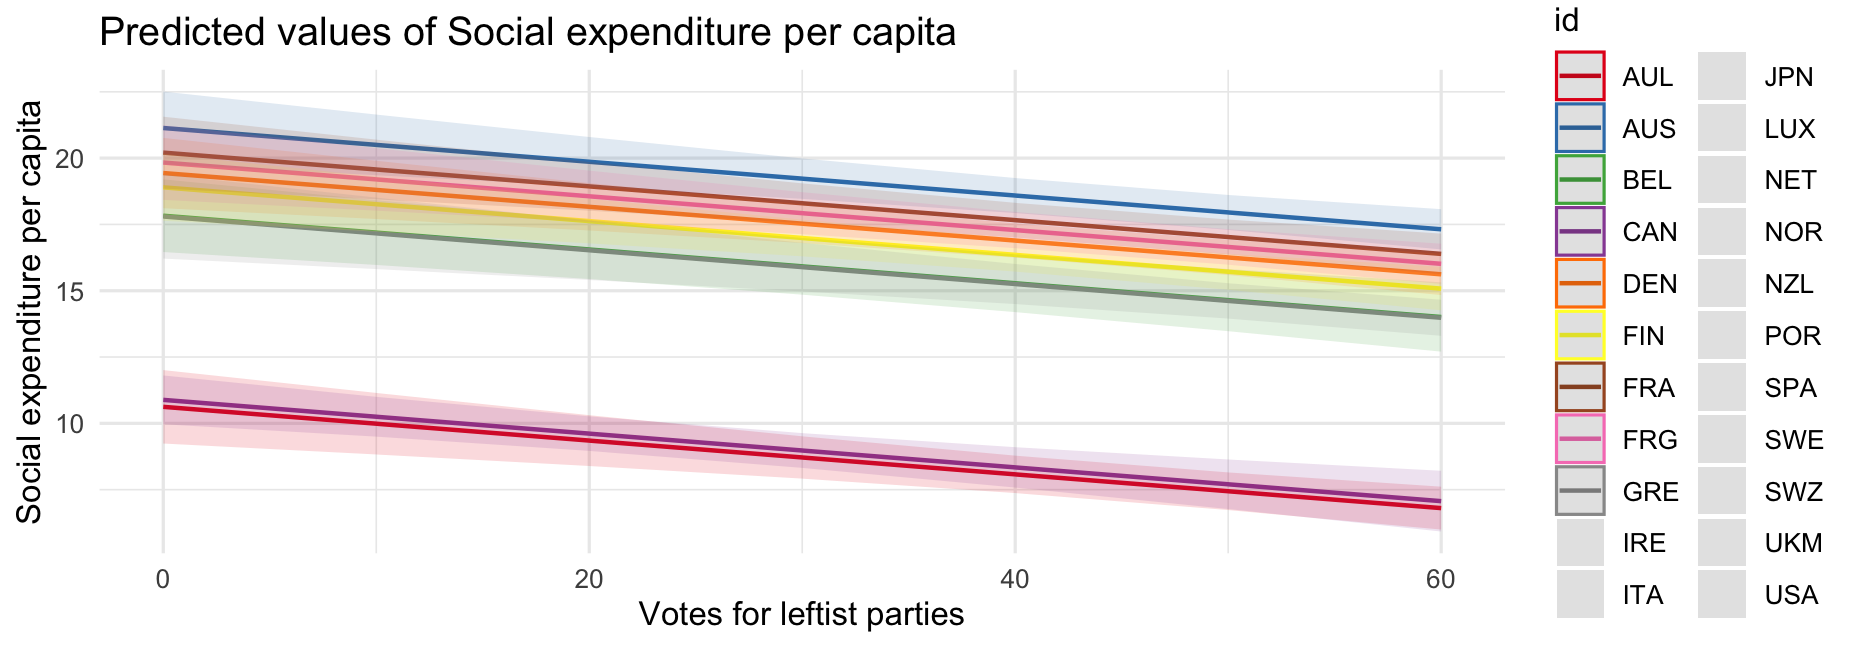
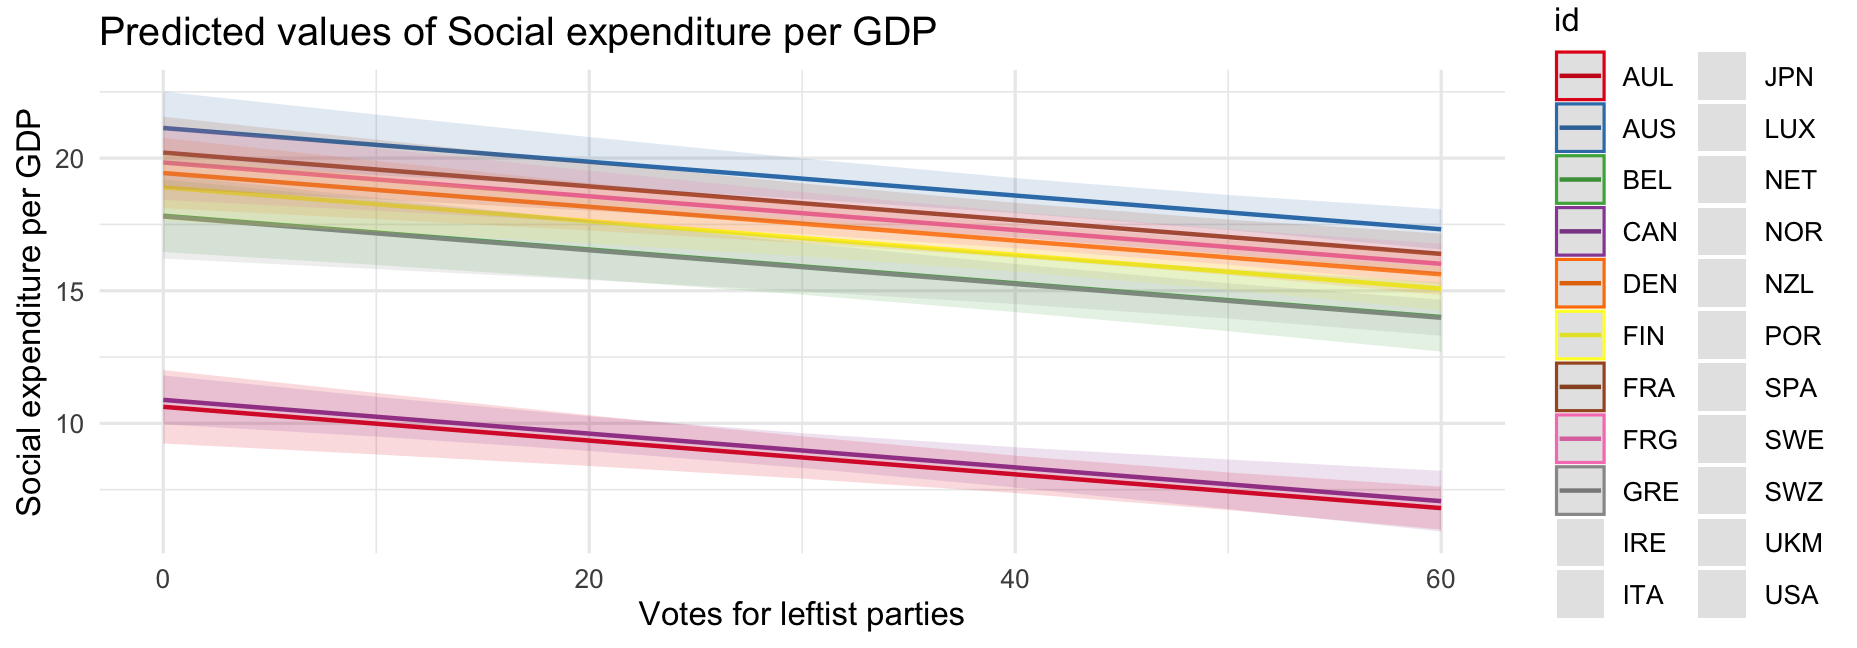
Some minor post-presentation changes to L8

Changed region(s): [[0.0, 0.1543, 0.0312, 0.8025], [0.4373, 0.0, 0.531, 0.0926]]

diff --git a/STAT_L8_Mixed.html b/STAT_L8_Mixed.html
@@ -116,7 +116,7 @@ as well as the cross-sectional part.
 </thead>
 <tbody>
 <tr>
-<td class='rowlabel firstrow'><span class='varlabel'>Social expenditure per capita</span></td>
+<td class='rowlabel firstrow'><span class='varlabel'>Social expenditure per GDP</span></td>
 <td class='firstrow'></td>
 </tr>
 <tr>
@@ -325,7 +325,7 @@ tab_model(ols, digits = 3)
 &lt;table style="border-collapse:collapse; border:none;"&gt;
 &lt;tr&gt;
 &lt;th style="border-top: double; text-align:center; font-style:normal; font-weight:bold; padding:0.2cm;  text-align:left; "&gt;&amp;nbsp;&lt;/th&gt;
-&lt;th colspan="3" style="border-top: double; text-align:center; font-style:normal; font-weight:bold; padding:0.2cm; "&gt;Social expenditure per&lt;br&gt;capita&lt;/th&gt;
+&lt;th colspan="3" style="border-top: double; text-align:center; font-style:normal; font-weight:bold; padding:0.2cm; "&gt;Social expenditure per&lt;br&gt;GDP&lt;/th&gt;
 &lt;/tr&gt;
 &lt;tr&gt;
 &lt;td style=" text-align:center; border-bottom:1px solid; font-style:italic; font-weight:normal;  text-align:left; "&gt;Predictors&lt;/td&gt;
@@ -437,6 +437,29 @@ Though varying intercepts and slopes most commonly used by unit,
 we could also have variation in `\(\alpha\)` or `\(\beta\)` over time.
 
 ---
+class: center, middle
+
+# Fixed Effects
+
+.pull-1[.circleoff[![](https://www.club.cc.cmu.edu/~cmccabe/image/crazy_clock.jpg)]]
+.pull-1[.circleon[![](https://www.fabrikat.ch/media/catalog/product/cache/4/thumbnail/447x/9df78eab33525d08d6e5fb8d27136e95/r/o/rollins_leatherrip_hammer_9_1.jpg)]]
+.pull-1[.circleoff[![](https://www.random.org/analysis/randbitmap-wamp.png)]]
+
+---
+## Modeling this
+
+Panel data models differ depending on where we think errors might correlate.
+
+We'll concentrate on .red[fixed effects] and .red[random effects] today, 
+since they are the building block to understanding the rest.
+
+When random effects are used together with fixed effects, we call this a .red[mixed effects model].
+
+There are other names and similar models out there too that you may encounter,
+such as .red[hierarchical models] (a multilevel model with a single nested hierarchy) 
+and .red[multilevel models] (a hierarchical model with multiple non-nested hierarchies).
+
+---
 ## The Error Term
 
 Now we could have different `\(\alpha\)`s and `\(\beta\)`s for each unit, each time point, 
@@ -478,29 +501,6 @@ Now, this wouldn't be a problem (OLS would not be biased) if this unobserved het
 ???
 
 Key point: measurements over time are almost never independent so OLS assumptions violated; i.e. don't use OLS...
-
----
-class: center, middle
-
-# Fixed Effects
-
-.pull-1[.circleoff[![](https://www.club.cc.cmu.edu/~cmccabe/image/crazy_clock.jpg)]]
-.pull-1[.circleon[![](https://www.fabrikat.ch/media/catalog/product/cache/4/thumbnail/447x/9df78eab33525d08d6e5fb8d27136e95/r/o/rollins_leatherrip_hammer_9_1.jpg)]]
-.pull-1[.circleoff[![](https://www.random.org/analysis/randbitmap-wamp.png)]]
-
----
-## Modeling this
-
-Panel data models differ depending on where we think errors might correlate.
-
-We'll concentrate on .red[fixed effects] and .red[random effects] today, 
-since they are the building block to understanding the rest.
-
-When random effects are used together with fixed effects, we call this a .red[mixed effects model].
-
-There are other names and similar models out there too that you may encounter,
-such as .red[hierarchical models] (a multilevel model with a single nested hierarchy) 
-and .red[multilevel models] (a hierarchical model with multiple non-nested hierarchies).
 
 ---
 ## Introduction to Fixed Effects
@@ -560,7 +560,7 @@ tab_model(lsdv, rm.terms = "factor(id) [BEL,CAN,FIN,FRG,IRE,ITA,LUX,JPN,NOR,SPA,
 &lt;table style="border-collapse:collapse; border:none;"&gt;
 &lt;tr&gt;
 &lt;th style="border-top: double; text-align:center; font-style:normal; font-weight:bold; padding:0.2cm;  text-align:left; "&gt;&amp;nbsp;&lt;/th&gt;
-&lt;th colspan="3" style="border-top: double; text-align:center; font-style:normal; font-weight:bold; padding:0.2cm; "&gt;Social expenditure per&lt;br&gt;capita&lt;/th&gt;
+&lt;th colspan="3" style="border-top: double; text-align:center; font-style:normal; font-weight:bold; padding:0.2cm; "&gt;Social expenditure per&lt;br&gt;GDP&lt;/th&gt;
 &lt;/tr&gt;
 &lt;tr&gt;
 &lt;td style=" text-align:center; border-bottom:1px solid; font-style:italic; font-weight:normal;  text-align:left; "&gt;Predictors&lt;/td&gt;
@@ -1319,34 +1319,35 @@ Note that we are treating year as a continuous variable here,
 because to treat as a factor would be to use up too many degrees of freedom.
 
 ---
-### Varying intercepts and slopes
 
 .pull-left[
 
 
 ```r
-plot_model(res, type = "pred", 
-           terms = c("leftvot","id"), 
-           pred.type="re")
+plot_model(rei, type = "pred", terms = c("leftvot","id"), pred.type="re")
 ```
 
-&lt;img src="STAT_L8_Mixed_files/figure-html/plotRES-1.png" width="504" /&gt;
+&lt;img src="STAT_L8_Mixed_files/figure-html/plotREI-1.png" width="504" /&gt;
+
 ]
 
 .pull-right[
 
 
 ```r
-plot_model(rep, type = "pred", 
-           terms = c("leftvot","id","year"), 
-           pred.type="re")
+plot_model(res, type = "pred", terms = c("leftvot","id"), pred.type="re")
 ```
 
-&lt;img src="STAT_L8_Mixed_files/figure-html/plotREP-1.png" width="504" /&gt;
+&lt;img src="STAT_L8_Mixed_files/figure-html/plotRES-1.png" width="504" /&gt;
 ]
 
-???
- 
+
+```r
+plot_model(rep, type = "pred", terms = c("leftvot","id","year"), pred.type="re")
+```
+
+&lt;img src="STAT_L8_Mixed_files/figure-html/plotREP-1.png" width="1008" /&gt;
+
 
 ---
 ### Why might we want to do this?
